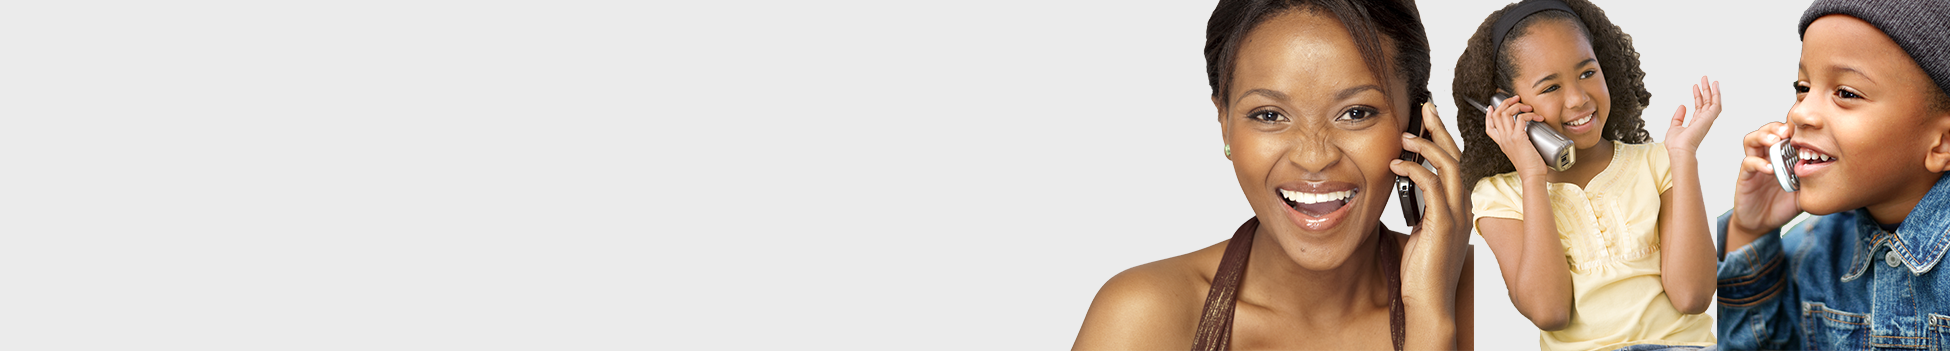
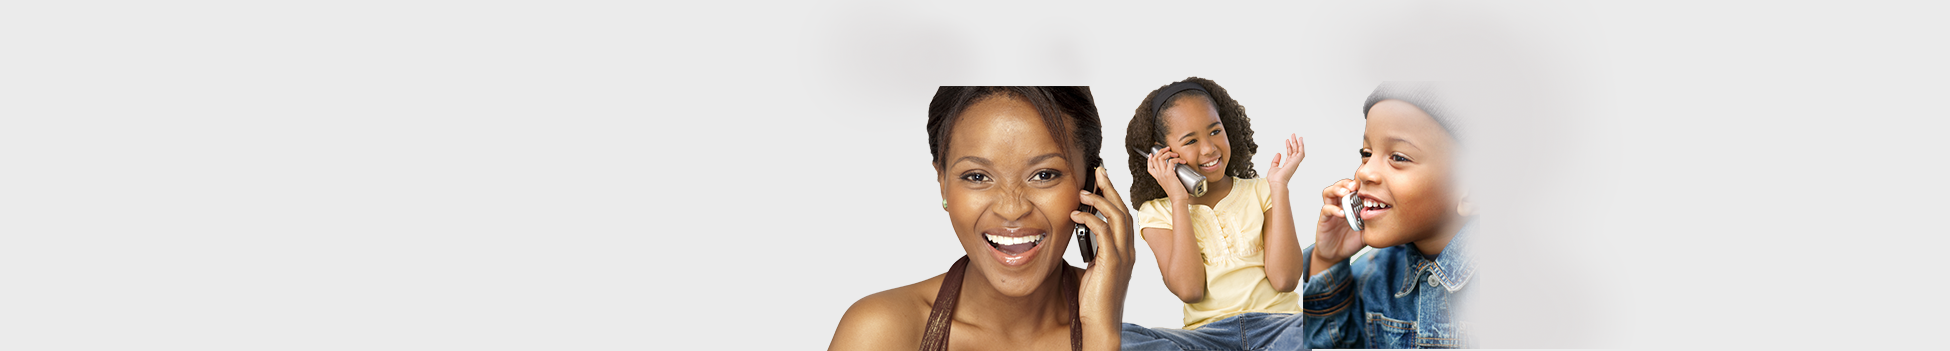
Add files via upload

diff --git a/index.html b/index.html
@@ -33,32 +33,9 @@
       <nav id="mainav" class="fl_right">
         <ul class="clear">
           <li class="active"><a href="index.html">Home</a></li>
-          <li><a class="drop" href="pages/about power.html">About POWER</a>
-            <ul>
-              <li><a href="pages/about power.html">Head Office</a>
-              </li>
-              <li><a href="pages/about power.html">Distribution Centre</a></li>
-            </ul>
-          </li>
-          <li><a class="drop" href="pages/products.html">Products</a>
-            <ul>
-              <li><a class="drop" href="pages/products.html">Fashion</a>
-                <ul>
-                  <li><a href="pages/products.html">Clothing</a></li>
-                  <li><a href="pages/products.html">Accessories</a></li>
-                  <li><a href="pages/products.html">Shoes</a></li>
-                </ul>
-              </li>
-              <li><a class="drop" href="pages/products.html">POWER Cell</a>
-              <ul>
-                <li><a href="pages/products.html">Cellphones</a></li>
-                <li><a href="pages/products.html">Airtime & Electricity</a></li>
-              </ul>
-              </li>
-            </ul>
-          </li>
-          <li><a href="pages/stores.html">Stores</a>
-          </li>
+          <li><a href="pages/products.html">Products</a></li>
+          <li><a href="pages/stores.html">Stores</a></li>
+          <li><a href="pages/about power.html">About POWER</a></li>
           <li><a href="pages/staff.html">Staff</a></li>
           <li><a href="pages/promo.html">Promo</a></li>
           <li><a href="pages/contact.html">Contact</a></li>
@@ -76,7 +53,7 @@
       <h5>
         <b>HOT fashion for everyone!</b>
       </h5>
-      <p>Welome to <b>POWER Fashion</b>...a brand that WALKs, TALKs and LIVEs with its PEOPLE.
+      <p>Welome to POWER Fashion...a brand that WALKs, TALKs and LIVEs with its PEOPLE.
         You've got swag & you're smart! You're SAVVY, because you've found 'that thing' at the best value!</p>
       <!-- ################################################################################################ -->
     </div>
@@ -112,26 +89,7 @@
 <!-- ################################################################################################ -->
 <!-- ################################################################################################ -->
 <!-- ################################################################################################ -->
-<div class="wrapper row3">
-  <main class="hoc container clear"> 
-    <!-- main body -->
-    <!-- ################################################################################################ -->
-    <div id="content"> 
-      <!-- ################################################################################################ -->
-      <!-- ################################################################################################ -->
-      <div class="group btmspace-50 demo">
-        <p>At POWER Fashion we are constantly expanding to new territories and finding new ways to reach our valued customers. Easily browse through the map and find a POWER Fashion store near you, which as of June 2019, is over 135 stores located in SA, Lesotho and Swaziland.</p> 
-            <iframe src="https://www.google.com/maps/d/embed?mid=1qBggO-pakD8J-v8UzihltNsgcSL2pjmS" width="200%" height="500" frameborder="0" style="border:0" allowfullscreen></iframe>
-      </div>
-      <!-- ################################################################################################ -->
-      
-      <!-- ################################################################################################ -->
-    </div>
-    <!-- ################################################################################################ -->
-    <!-- / main body -->
-    <div class="clear"></div>
-  </main>
-</div>
+
 <!-- ################################################################################################ -->
 <!-- ################################################################################################ -->
 <div class="wrapper row4">

diff --git a/pages/about power.html b/pages/about power.html
@@ -33,38 +33,9 @@
         <nav id="mainav" class="fl_right">
           <ul class="clear">
             <li><a href="../index.html">Home</a></li>
-            <li class="active"><a class="drop" href="../pages/about power.html">About POWER</a>
-              <ul>
-                <li><a href="../pages/about power.html">Head Office</a>
-                </li>
-                <li><a href="../pages/about power.html">Distribution Centre</a></li>
-              </ul>
-            </li>
-            <li><a class="drop" href="../pages/products.html">Products</a>
-              <ul>
-                <li><a class="drop" href="../pages/products.html">Fashion</a>
-                  <ul>
-                    <li><a href="../pages/products.html">Clothing</a></li>
-                    <li><a href="../pages/products.html">Accessories</a></li>
-                    <li><a href="../pages/products.html">Shoes</a></li>
-                  </ul>
-                </li>
-                <li><a class="drop" href="../pages/products.html">POWER Cell</a>
-                <ul>
-                  <li><a href="../pages/products.html">Cellphones</a></li>
-                  <li><a href="../pages/products.html">Airtime & Electricity</a></li>
-                  <li><a href="../pages/products.html">Gadgets</a></li>
-                </ul>
-                </li>
-              </ul>
-            </li>
-            <li><a class="drop" href="../pages/stores.html">Stores</a>
-              <ul>
-                <li><a href="../pages/stores.html">South Africa</a></li>
-                <li><a href="../pages/stores.html">Swaziland</a></li>
-                <li><a href="../pages/stores.html">Lesotho</a></li>
-              </ul>
-            </li>
+            <li><a href="../pages/products.html">Products</a></li>
+            <li><a href="../pages/stores.html">Stores</a></li>
+            <li class="active"><a href="../pages/about power.html">About POWER</a></li>
             <li><a href="../pages/staff.html">Staff</a></li>
             <li><a href="../pages/promo.html">Promo</a></li>
             <li><a href="../pages/contact.html">Contact</a></li>
@@ -114,7 +85,7 @@
         </div>
         <!-- ################################################################################################ -->
         <div class="group btmspace-50 demo">
-          <p>POWER Fashion, since 1993! …an ‘Otto Brothers’ brand, led by CEO Noel Otto:<b>"We serve our purpose of giving all people dignity, through affordable fashion which we work very hard to deliver! The spills are pushed back into our Customers’ wallets, who leave with a feeling of satisfaction, having bought more than they thought hard-earned-money could afford!”</b></p>
+          <p>POWER Fashion, since 1993! …an Otto Brothers Distributors (PTY) LTD brand, led by CEO Noel Otto:<b>"We serve our purpose of giving all people dignity, through affordable fashion which we work very hard to deliver! The spills are pushed back into our Customers’ wallets, who leave with a feeling of satisfaction, having bought more than they thought hard-earned-money could afford!”</b></p>
           <p>Over sixty-five years ago, a general merchandise store was opened by the Otto family in Swaziland. It traded in food, clothing and footwear, and forged deep roots in the community it served. Today POWER Fashion stores thickly stud the map of Southern Africa. This value fashion retail business, registered as Otto Brothers Distributors, currently operates over 130 corporate stores, trading from over 48,000m2 of retail space, and has an ambitious growth trajectory planned into the foreseeable future. It is a “Proudly South African” story in many ways, with the business employing more than 1,300 staff, and infusing employees with a strong POWER-family ethos.</p>
         </div>
         <!-- ################################################################################################ -->

diff --git a/pages/stores.html b/pages/stores.html
@@ -33,38 +33,9 @@
         <nav id="mainav" class="fl_right">
           <ul class="clear">
             <li><a href="../index.html">Home</a></li>
-            <li><a class="drop" href="../pages/about power.html">About POWER</a>
-              <ul>
-                <li><a href="../pages/about power.html">Head Office</a>
-                </li>
-                <li><a href="../pages/about power.html">Distribution Centre</a></li>
-              </ul>
-            </li>
-            <li><a class="drop" href="../pages/products.html">Products</a>
-              <ul>
-                <li><a class="drop" href="../pages/products.html">Fashion</a>
-                  <ul>
-                    <li><a href="../pages/products.html">Clothing</a></li>
-                    <li><a href="../pages/products.html">Accessories</a></li>
-                    <li><a href="../pages/products.html">Shoes</a></li>
-                  </ul>
-                </li>
-                <li><a class="drop" href="../pages/products.html">POWER Cell</a>
-                <ul>
-                  <li><a href="../pages/products.html">Cellphones</a></li>
-                  <li><a href="../pages/products.html">Airtime & Electricity</a></li>
-                  <li><a href="../pages/products.html">Gadgets</a></li>
-                </ul>
-                </li>
-              </ul>
-            </li>
-            <li class="active"><a class="drop" href="../pages/stores.html">Stores</a>
-              <ul>
-                <li><a href="../pages/stores.html">South Africa</a></li>
-                <li><a href="../pages/stores.html">Swaziland</a></li>
-                <li><a href="../pages/stores.html">Lesotho</a></li>
-              </ul>
-            </li>
+            <li><a href="../pages/products.html">Products</a></li>
+            <li class="active"><a href="../pages/stores.html">Stores</a></li>
+            <li><a href="../pages/about power.html">About POWER</a></li>
             <li><a href="../pages/staff.html">Staff</a></li>
             <li><a href="../pages/promo.html">Promo</a></li>
             <li><a href="../pages/contact.html">Contact</a></li>
@@ -147,7 +118,7 @@
       <!-- ################################################################################################ -->
       <div class="group btmspace-50 demo">
       
-            <iframe src="https://www.google.com/maps/d/embed?mid=1qBggO-pakD8J-v8UzihltNsgcSL2pjmS" width="200%" height="500" frameborder="0" style="border:0" allowfullscreen></iframe>
+        <iframe src="https://www.google.com/maps/d/embed?mid=192F4qqb-IWs3qEik6TRTA51j7arenldn" width="100%" height="480"></iframe>
       </div>
       <!-- ################################################################################################ -->
       

diff --git a/pages/products.html b/pages/products.html
@@ -33,38 +33,9 @@
         <nav id="mainav" class="fl_right">
           <ul class="clear">
             <li><a href="../index.html">Home</a></li>
-            <li><a class="drop" href="../pages/about power.html">About POWER</a>
-              <ul>
-                <li><a href="../pages/about power.html">Head Office</a>
-                </li>
-                <li><a href="../pages/about power.html">Distribution Centre</a></li>
-              </ul>
-            </li>
-            <li class="active"><a class="drop" href="../pages/products.html">Products</a>
-              <ul>
-                <li><a class="drop" href="../pages/products.html">Fashion</a>
-                  <ul>
-                    <li><a href="../pages/products.html">Clothing</a></li>
-                    <li><a href="../pages/products.html">Accessories</a></li>
-                    <li><a href="../pages/products.html">Shoes</a></li>
-                  </ul>
-                </li>
-                <li><a class="drop" href="../pages/products.html">POWER Cell</a>
-                <ul>
-                  <li><a href="../pages/products.html">Cellphones</a></li>
-                  <li><a href="../pages/products.html">Airtime & Electricity</a></li>
-                  <li><a href="../pages/products.html">Gadgets</a></li>
-                </ul>
-                </li>
-              </ul>
-            </li>
-            <li><a class="drop" href="../pages/stores.html">Stores</a>
-              <ul>
-                <li><a href="../pages/stores.html">South Africa</a></li>
-                <li><a href="../pages/stores.html">Swaziland</a></li>
-                <li><a href="../pages/stores.html">Lesotho</a></li>
-              </ul>
-            </li>
+            <li class="active"><a href="../pages/products.html">Products</a></li>
+            <li><a href="../pages/stores.html">Stores</a></li>
+            <li><a href="../pages/about power.html">About POWER</a></li>
             <li><a href="../pages/staff.html">Staff</a></li>
             <li><a href="../pages/promo.html">Promo</a></li>
             <li><a href="../pages/contact.html">Contact</a></li>

diff --git a/pages/contact.html b/pages/contact.html
@@ -33,38 +33,9 @@
         <nav id="mainav" class="fl_right">
           <ul class="clear">
             <li><a href="../index.html">Home</a></li>
-            <li><a class="drop" href="../pages/about power.html">About POWER</a>
-              <ul>
-                <li><a href="../pages/about power.html">Head Office</a>
-                </li>
-                <li><a href="../pages/about power.html">Distribution Centre</a></li>
-              </ul>
-            </li>
-            <li><a class="drop" href="../pages/products.html">Products</a>
-              <ul>
-                <li><a class="drop" href="../pages/products.html">Fashion</a>
-                  <ul>
-                    <li><a href="../pages/products.html">Clothing</a></li>
-                    <li><a href="../pages/products.html">Accessories</a></li>
-                    <li><a href="../pages/products.html">Shoes</a></li>
-                  </ul>
-                </li>
-                <li><a class="drop" href="../pages/products.html">POWER Cell</a>
-                <ul>
-                  <li><a href="../pages/products.html">Cellphones</a></li>
-                  <li><a href="../pages/products.html">Airtime & Electricity</a></li>
-                  <li><a href="../pages/products.html">Gadgets</a></li>
-                </ul>
-                </li>
-              </ul>
-            </li>
-            <li><a class="drop" href="../pages/stores.html">Stores</a>
-              <ul>
-                <li><a href="../pages/stores.html">South Africa</a></li>
-                <li><a href="../pages/stores.html">Swaziland</a></li>
-                <li><a href="../pages/stores.html">Lesotho</a></li>
-              </ul>
-            </li>
+            <li><a href="../pages/products.html">Products</a></li>
+            <li><a href="../pages/stores.html">Stores</a></li>
+            <li><a href="../pages/about power.html">About POWER</a></li>
             <li><a href="../pages/staff.html">Staff</a></li>
             <li><a href="../pages/promo.html">Promo</a></li>
             <li class="active"><a href="../pages/contact.html">Contact</a></li>

diff --git a/pages/promo.html b/pages/promo.html
@@ -33,38 +33,9 @@
         <nav id="mainav" class="fl_right">
           <ul class="clear">
             <li><a href="../index.html">Home</a></li>
-            <li><a class="drop" href="../pages/about power.html">About POWER</a>
-              <ul>
-                <li><a href="../pages/about power.html">Head Office</a>
-                </li>
-                <li><a href="../pages/about power.html">Distribution Centre</a></li>
-              </ul>
-            </li>
-            <li><a class="drop" href="../pages/products.html">Products</a>
-              <ul>
-                <li><a class="drop" href="../pages/products.html">Fashion</a>
-                  <ul>
-                    <li><a href="../pages/products.html">Clothing</a></li>
-                    <li><a href="../pages/products.html">Accessories</a></li>
-                    <li><a href="../pages/products.html">Shoes</a></li>
-                  </ul>
-                </li>
-                <li><a class="drop" href="../pages/products.html">POWER Cell</a>
-                <ul>
-                  <li><a href="../pages/products.html">Cellphones</a></li>
-                  <li><a href="../pages/products.html">Airtime & Electricity</a></li>
-                  <li><a href="../pages/products.html">Gadgets</a></li>
-                </ul>
-                </li>
-              </ul>
-            </li>
-            <li><a class="drop" href="../pages/stores.html">Stores</a>
-              <ul>
-                <li><a href="../pages/stores.html">South Africa</a></li>
-                <li><a href="../pages/stores.html">Swaziland</a></li>
-                <li><a href="../pages/stores.html">Lesotho</a></li>
-              </ul>
-            </li>
+            <li><a href="../pages/products.html">Products</a></li>
+            <li><a href="../pages/stores.html">Stores</a></li>
+            <li><a href="../pages/about power.html">About POWER</a></li>
             <li><a href="../pages/staff.html">Staff</a></li>
             <li class="active"><a href="../pages/promo.html">Promo</a></li>
             <li><a href="../pages/contact.html">Contact</a></li>

diff --git a/pages/staff.html b/pages/staff.html
@@ -33,38 +33,9 @@
         <nav id="mainav" class="fl_right">
           <ul class="clear">
             <li><a href="../index.html">Home</a></li>
-            <li><a class="drop" href="../pages/about power.html">About POWER</a>
-              <ul>
-                <li><a href="../pages/about power.html">Head Office</a>
-                </li>
-                <li><a href="../pages/about power.html">Distribution Centre</a></li>
-              </ul>
-            </li>
-            <li><a class="drop" href="../pages/products.html">Products</a>
-              <ul>
-                <li><a class="drop" href="../pages/products.html">Fashion</a>
-                  <ul>
-                    <li><a href="../pages/products.html">Clothing</a></li>
-                    <li><a href="../pages/products.html">Accessories</a></li>
-                    <li><a href="../pages/products.html">Shoes</a></li>
-                  </ul>
-                </li>
-                <li><a class="drop" href="../pages/products.html">POWER Cell</a>
-                <ul>
-                  <li><a href="../pages/products.html">Cellphones</a></li>
-                  <li><a href="../pages/products.html">Airtime & Electricity</a></li>
-                  <li><a href="../pages/products.html">Gadgets</a></li>
-                </ul>
-                </li>
-              </ul>
-            </li>
-            <li><a class="drop" href="../pages/stores.html">Stores</a>
-              <ul>
-                <li><a href="../pages/stores.html">South Africa</a></li>
-                <li><a href="../pages/stores.html">Swaziland</a></li>
-                <li><a href="../pages/stores.html">Lesotho</a></li>
-              </ul>
-            </li>
+            <li><a href="../pages/products.html">Products</a></li>
+            <li><a href="../pages/stores.html">Stores</a></li>
+            <li><a href="../pages/about power.html">About POWER</a></li>
             <li class="active"><a href="../pages/staff.html">Staff</a></li>
             <li><a href="../pages/promo.html">Promo</a></li>
             <li><a href="../pages/contact.html">Contact</a></li>

diff --git a/layout/styles/layout.css b/layout/styles/layout.css
@@ -30,7 +30,7 @@
 #pageintro{padding:250px 0;}
 #pageintro h5{color: #E11837;}
 
-#pageintro > div{display:block; max-width:40%; margin-top: 15%;}
+#pageintro > div{display:block; max-width:40%; margin-top: 5%;}
 #pageintro > div *{line-height:normal;}
 #pageintro .heading{margin:0 0 30px 0; padding:0; font-size:3rem;}
 #pageintro p{margin:0; font-size:1.1rem; line-height:1.5rem;}
@@ -41,7 +41,7 @@
 --------------------------------------------------------------------------------------------------------------- */
 .container{padding:60px 0;}
 .container #content{padding:0; margin: 0;}
-.container #content iframe{padding:0; margin: 0 800px 0 -470px;}
+.container #content iframe{padding:0; margin: 0;}
 .btmpad-none{padding-bottom:0;}
 
 /* Content */
@@ -254,7 +254,7 @@ input:focus, textarea:focus, *:required:focus{border-color:#E11837;}
 
 /* Rows */
 .bgded .row1{color:#fdfdfd; background-color:rgb(0, 0, 0);}
-.bgded #pageintro {height: 90vh;}
+.bgded #pageintro {height: 75vh;}
 
 .row1{color:#191919; background-color:rgba(255,255,255,.65);}
 .row1{box-shadow:0 5px 10px rgba(0,0,0,.1);}
